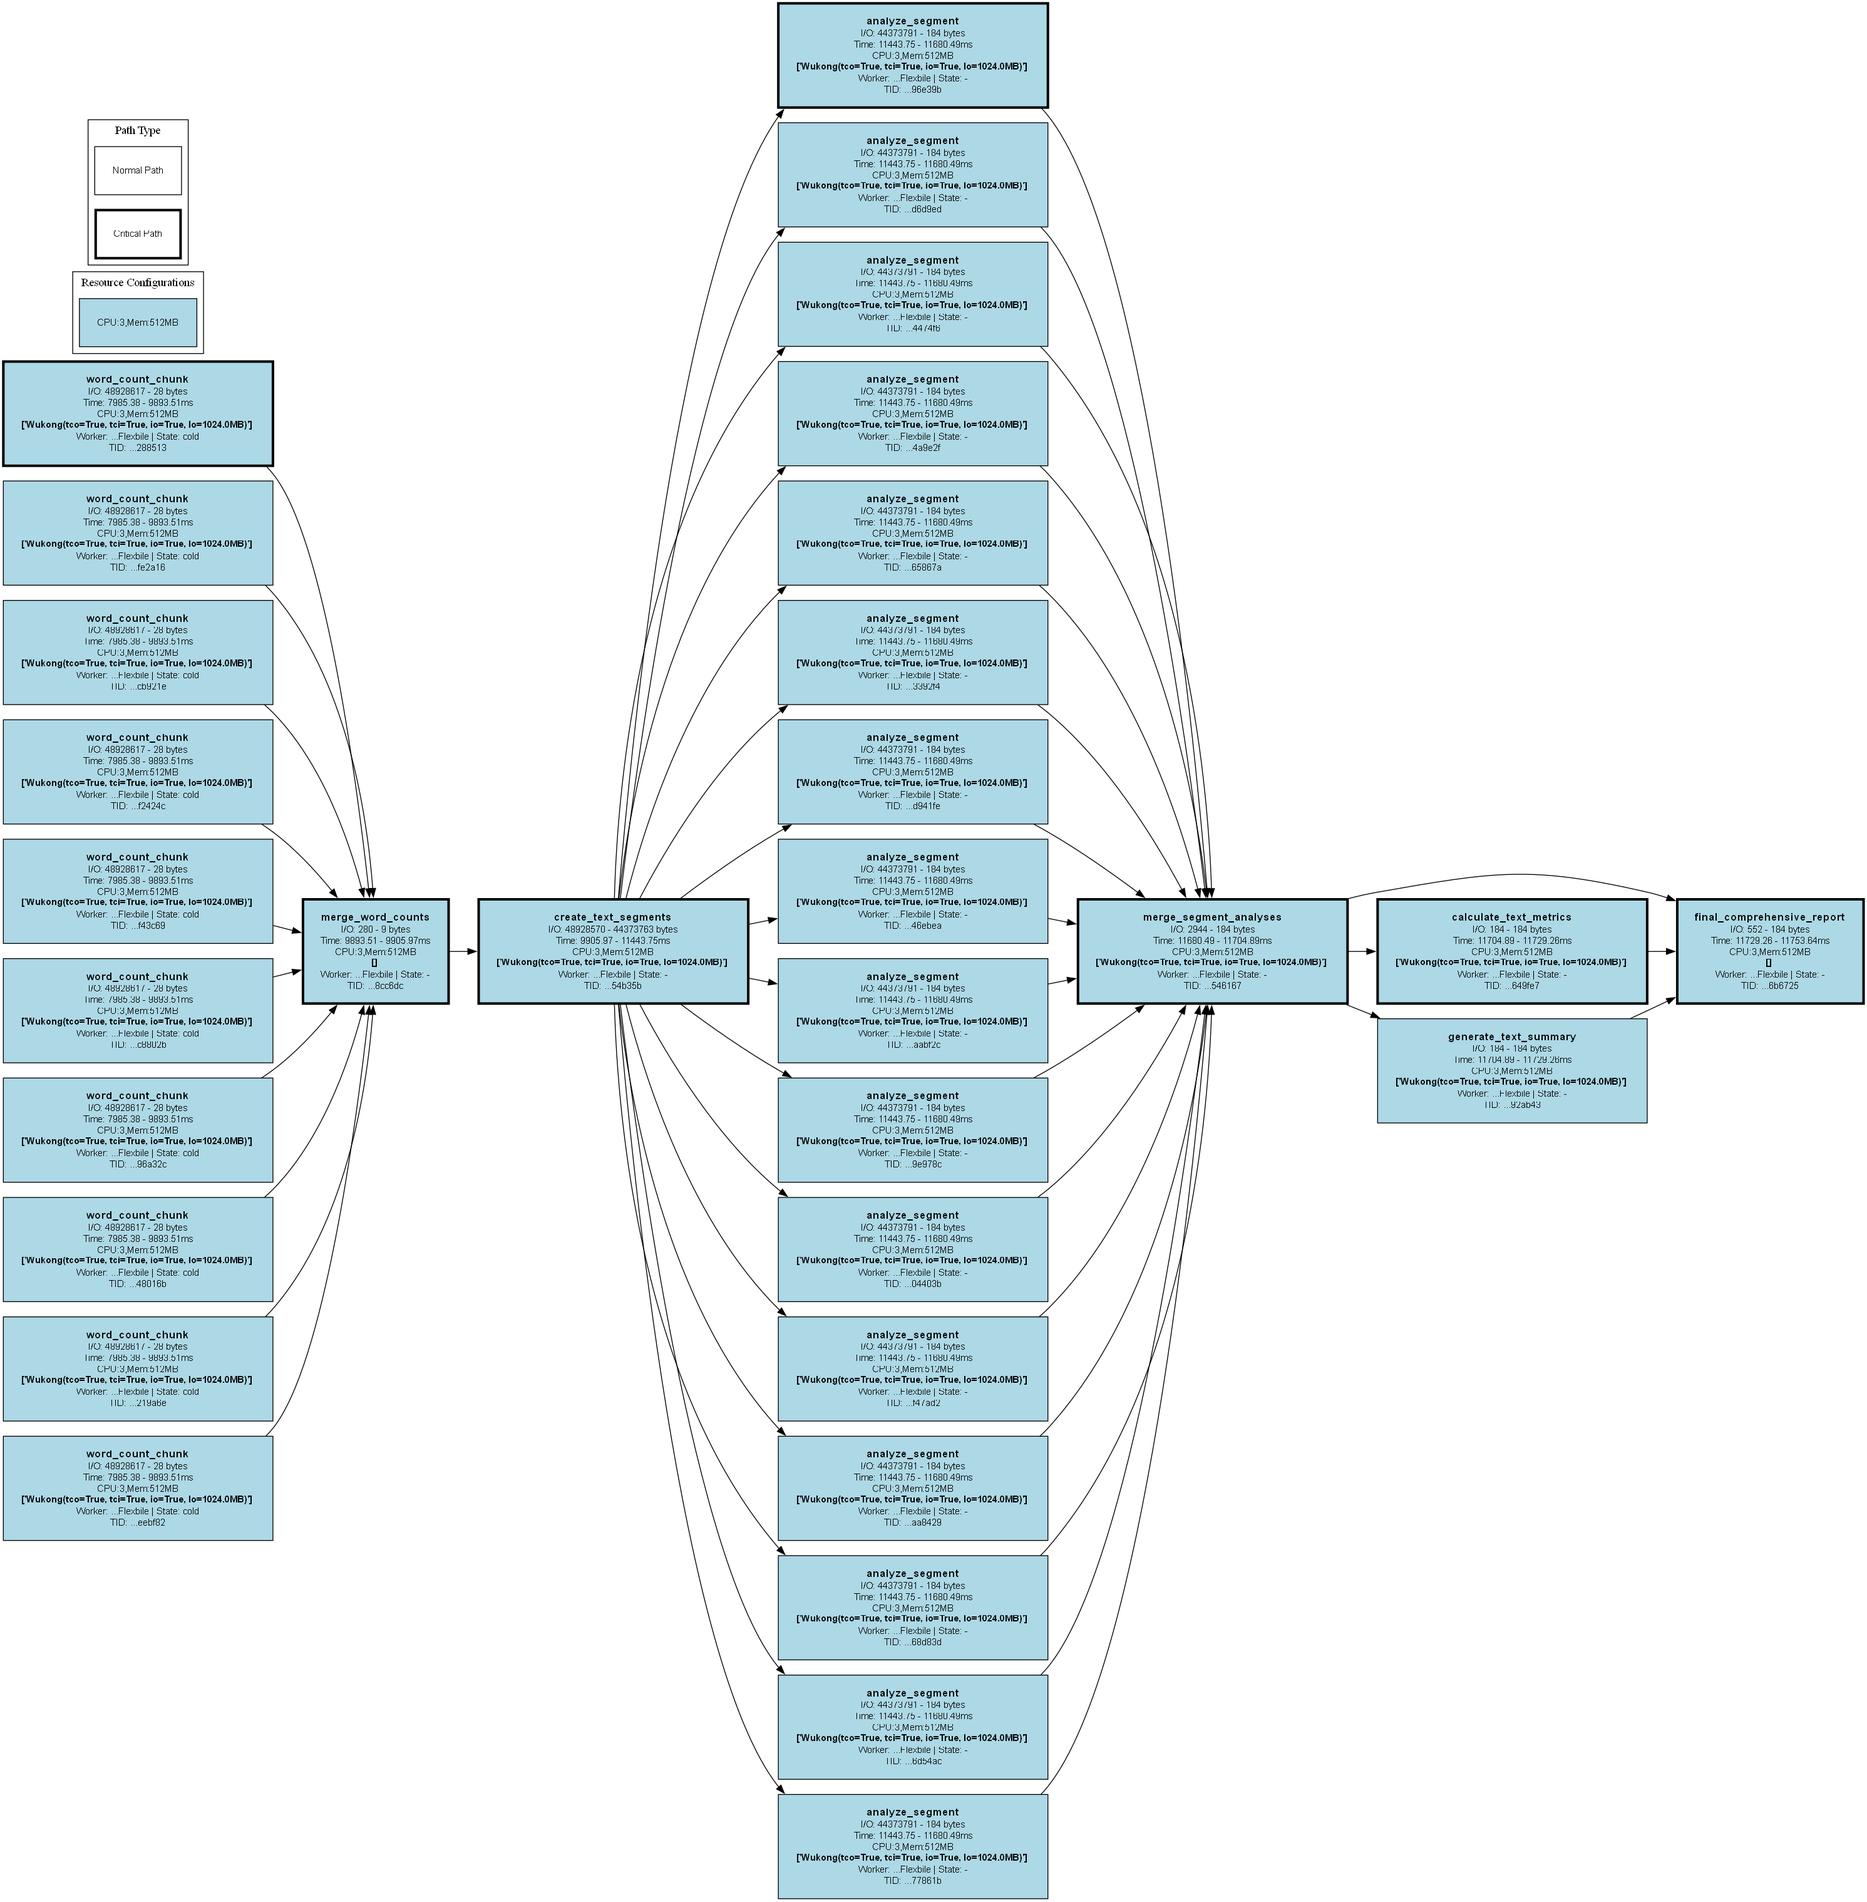
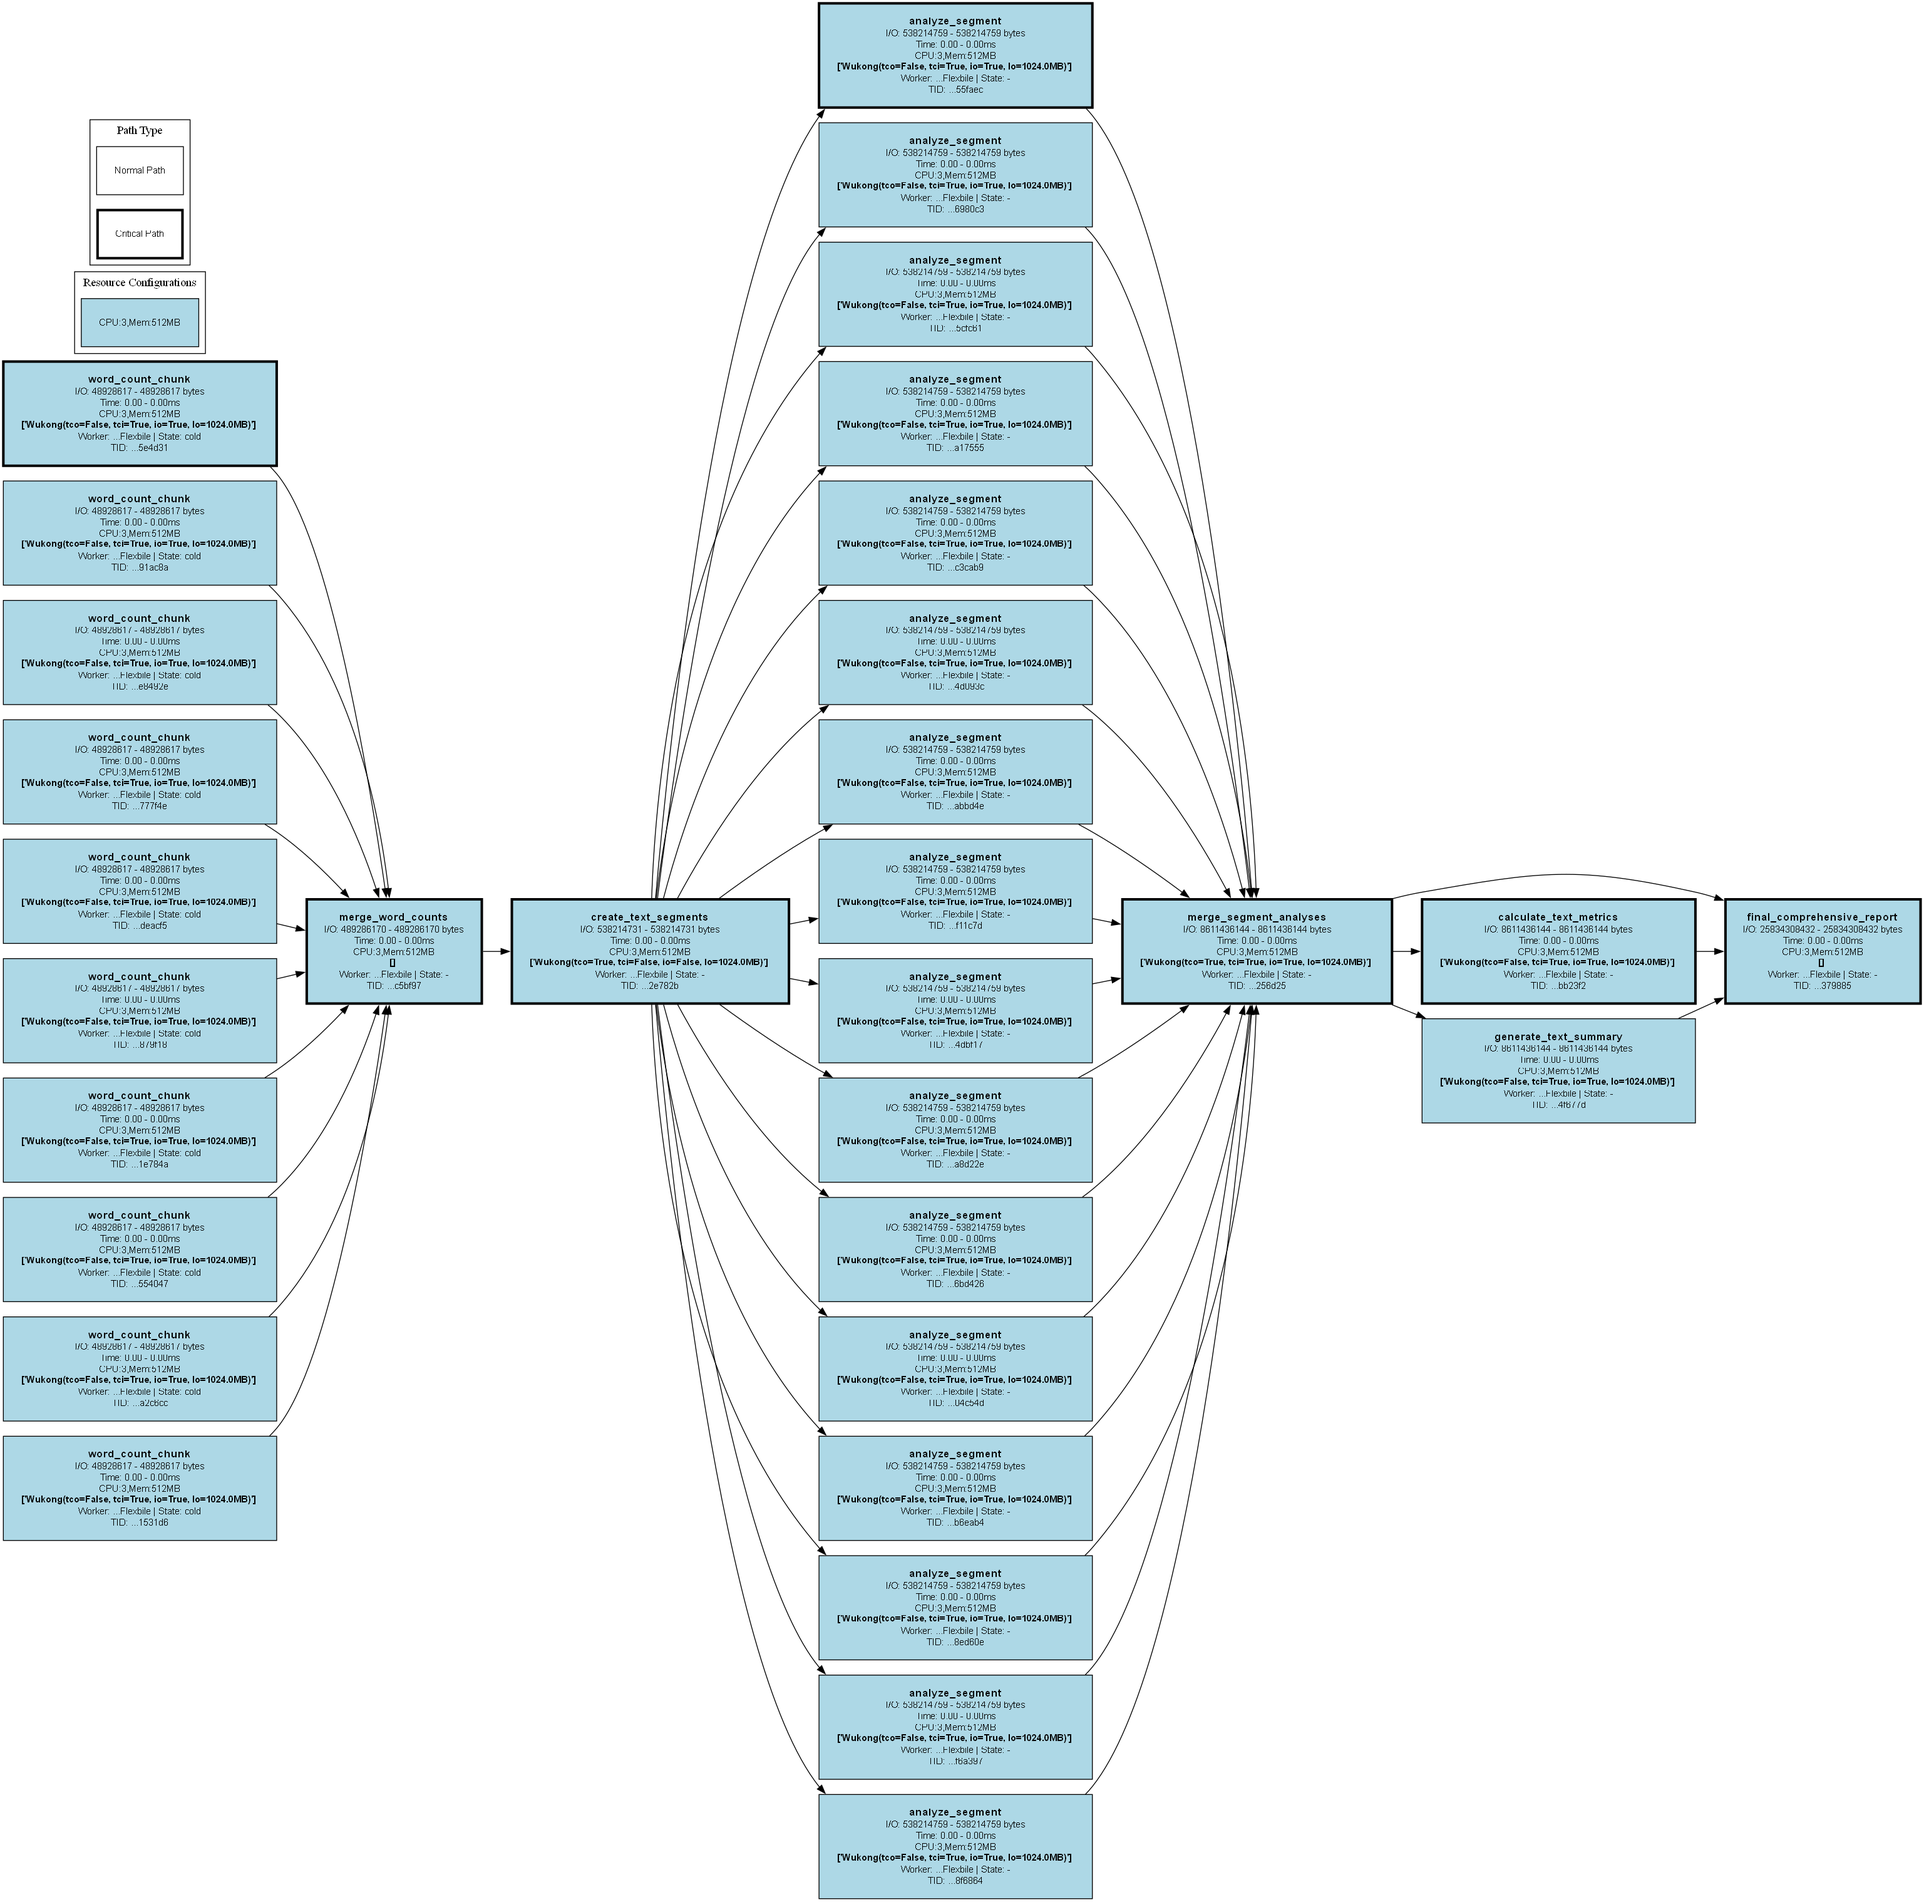
fixed wukong optimization planenr assignment logic

diff --git a/src/planning/optimizations/wukong_optimizations.py b/src/planning/optimizations/wukong_optimizations.py
@@ -26,16 +26,16 @@ class WukongOptimizations(TaskOptimization, WorkerExecutionLogic):
         - If a task has large output, execute all READY tasks locally + re-check storage to see if other tasks became READY
     """
 
-    task_clustering_fan_outs: bool = False
-    task_clustering_fan_ins: bool = False
-    delayed_io: bool = False
-    large_output_b: int = 0
+    task_clustering_fan_outs: bool
+    task_clustering_fan_ins: bool
+    delayed_io: bool
+    large_output_b: int
 
-    def __init__(self):
-        self.task_clustering_fan_outs = WukongOptimizations.task_clustering_fan_outs
-        self.task_clustering_fan_ins = WukongOptimizations.task_clustering_fan_ins
-        self.delayed_io = WukongOptimizations.delayed_io
-        self.large_output_b = WukongOptimizations.large_output_b
+    def __init__(self, task_clustering_fan_outs: bool | None = None, task_clustering_fan_ins: bool | None = None, delayed_io: bool | None = None, large_output_b: int | None = None):
+        self.task_clustering_fan_outs = task_clustering_fan_outs if task_clustering_fan_outs is not None else WukongOptimizations.task_clustering_fan_outs
+        self.task_clustering_fan_ins = task_clustering_fan_ins if task_clustering_fan_ins is not None else WukongOptimizations.task_clustering_fan_ins
+        self.delayed_io = delayed_io if delayed_io is not None else WukongOptimizations.delayed_io
+        self.large_output_b = large_output_b if large_output_b is not None else WukongOptimizations.large_output_b
 
     @property
     def name(self) -> str: return f"Wukong(tco={self.task_clustering_fan_outs}, tci={self.task_clustering_fan_ins}, io={self.delayed_io}, lo={self.large_output_b / 1024 / 1024}MB)"
@@ -55,7 +55,12 @@ class WukongOptimizations(TaskOptimization, WorkerExecutionLogic):
         for node in topo_sorted_nodes:
             is_fan_out_origin = len(node.downstream_nodes) > 1
             is_fan_in_upstream = len(node.downstream_nodes) > 0 and any([dnode for dnode in node.downstream_nodes if len(dnode.upstream_nodes) > 1])
-            if is_fan_out_origin or is_fan_in_upstream: node.add_optimization(WukongOptimizations())
+            if is_fan_out_origin or is_fan_in_upstream: 
+                node.add_optimization(WukongOptimizations(
+                    task_clustering_fan_outs=is_fan_out_origin,
+                    task_clustering_fan_ins=is_fan_in_upstream,
+                    delayed_io=is_fan_in_upstream and WukongOptimizations.delayed_io,
+                ))
 
     @staticmethod
     async def wel_override_should_upload_output(planner, current_task: DAGTaskNode, subdag: SubDAG, this_worker, metadata_storage: Storage, is_dupping: bool):
